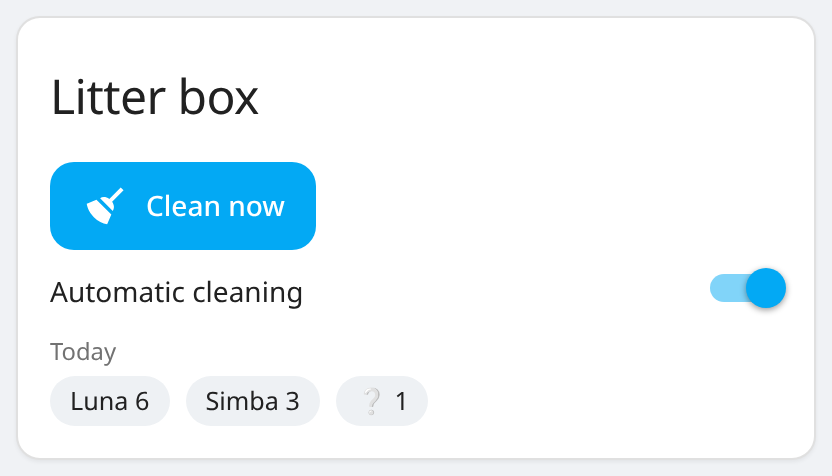
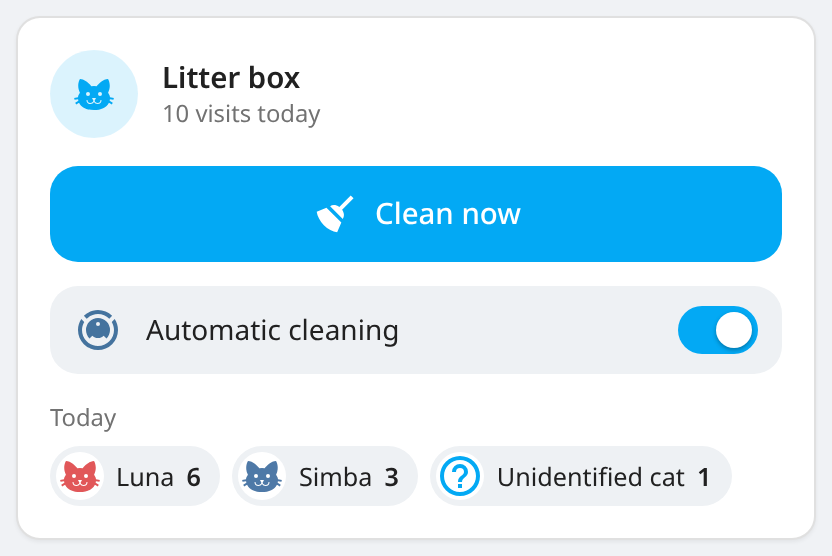
v0.9.0: litter box card redesign, compact clean card, cat colours
- Litter box card: header with status, big Clean now button with in-card
  confirmation, auto clean row, today's chips per cat
- New compact litter box card (clean only, tap twice to confirm)
- Colour per cat in the cat settings, used by charts and icons

diff --git a/custom_components/litter_cat_identifier/frontend/litter-cat-identifier-cards.js b/custom_components/litter_cat_identifier/frontend/litter-cat-identifier-cards.js
@@ -31,6 +31,7 @@ const I18N = {
     hide: "Hide unidentified", show: (n) => `Show unidentified (${n} hidden)`,
     clean: "Clean now", cleaning: "Cleaning…", confirmClean: "Clean the litter box now? Make sure no cat is inside.",
     autoClean: "Automatic cleaning", todayTitle: "Today", noClean: "Pick the cleaning entity in the card editor.",
+    cancel: "Cancel", tapAgain: "Tap again to clean", visitsToday: (n) => (n === 1 ? "1 visit today" : `${n} visits today`),
     l: {
       device_id: "Litter box", title: "Title", columns: "Cats per row", show_weight: "Show weight",
       show_visits: "Show visits today", show_last: "Show last visit", count: "Visits shown",
@@ -63,6 +64,7 @@ const I18N = {
     hide: "Ocultar no identificadas", show: (n) => `Mostrar no identificadas (${n} ocultas)`,
     clean: "Limpiar ahora", cleaning: "Limpiando…", confirmClean: "¿Limpiar el arenero ahora? Comprueba que no hay ningún gato dentro.",
     autoClean: "Limpieza automática", todayTitle: "Hoy", noClean: "Elige la entidad de limpieza en el editor de la tarjeta.",
+    cancel: "Cancelar", tapAgain: "Pulsa otra vez para limpiar", visitsToday: (n) => (n === 1 ? "1 visita hoy" : `${n} visitas hoy`),
     l: {
       device_id: "Arenero", title: "Título", columns: "Gatos por fila", show_weight: "Mostrar peso",
       show_visits: "Mostrar visitas de hoy", show_last: "Mostrar última visita", count: "Visitas visibles",
@@ -164,6 +166,38 @@ const STYLE = `
   .lci-chip { padding: 4px 10px; border-radius: 16px; background: var(--secondary-background-color); font-size: .9em; }
   .lci-health { display: flex; align-items: center; gap: 4px; margin-top: 4px; color: var(--error-color, #db4437); font-size: .85em; }
   .lci-health ha-icon { --mdc-icon-size: 16px; flex: none; }
+  .lcb-head, .lcb-mini { display: flex; align-items: center; gap: 12px; }
+  .lcb-head { margin-bottom: 14px; }
+  .lcb-titles { flex: 1; min-width: 0; }
+  .lcb-badge { width: 44px; height: 44px; border-radius: 50%; flex: none; display: grid; place-items: center;
+               background: color-mix(in srgb, var(--primary-color) 14%, transparent); color: var(--primary-color); }
+  .lcb-badge.busy ha-icon { animation: lcb-spin 2.4s linear infinite; }
+  @keyframes lcb-spin { to { transform: rotate(360deg); } }
+  @media (prefers-reduced-motion: reduce) { .lcb-badge.busy ha-icon { animation: none; } }
+  .lcb-btn { display: inline-flex; align-items: center; justify-content: center; gap: 8px; padding: 12px 18px; border-radius: 14px; border: 0;
+             cursor: pointer; font: inherit; font-weight: 500; color: var(--text-primary-color, #fff); background: var(--primary-color); }
+  .lcb-btn.wide { width: 100%; font-size: 1.05em; }
+  .lcb-btn[disabled] { opacity: .6; cursor: default; }
+  .lcb-ask { display: flex; flex-direction: column; gap: 10px; padding: 12px; border-radius: 14px; background: var(--secondary-background-color); }
+  .lcb-ask-b { display: flex; justify-content: flex-end; gap: 8px; align-items: center; }
+  .lcb-link { border: 0; background: none; font: inherit; color: var(--primary-color); cursor: pointer; padding: 8px 12px; }
+  .lcb-row { display: flex; align-items: center; gap: 12px; width: 100%; margin-top: 12px; padding: 10px 12px; border: 0; border-radius: 14px;
+             background: var(--secondary-background-color); font: inherit; color: var(--primary-text-color); cursor: pointer; text-align: left; }
+  .lcb-row > span:first-of-type { flex: 1; }
+  .lcb-row ha-icon { color: var(--state-icon-color, var(--secondary-text-color)); }
+  .lcb-sw { width: 40px; height: 24px; border-radius: 12px; background: var(--divider-color); position: relative; flex: none; transition: background .2s; }
+  .lcb-sw span { position: absolute; top: 3px; left: 3px; width: 18px; height: 18px; border-radius: 50%; background: #fff; box-shadow: 0 1px 2px rgba(0,0,0,.3); transition: transform .2s; }
+  .lcb-sw.on { background: var(--primary-color); } .lcb-sw.on span { transform: translateX(16px); }
+  .lcb-label { margin-top: 14px; }
+  .lcb-chips { display: flex; flex-wrap: wrap; gap: 6px; margin-top: 6px; }
+  .lcb-chip { display: inline-flex; align-items: center; gap: 6px; padding: 3px 10px 3px 3px; border-radius: 16px; background: var(--secondary-background-color); font-size: .9em; }
+  .lcb-chip img, .lcb-chip ha-icon { width: 24px; height: 24px; border-radius: 50%; object-fit: cover; --mdc-icon-size: 16px;
+                                     display: grid; place-items: center; background: var(--card-background-color); color: var(--primary-color); }
+  .lcb-chip b { font-weight: 600; }
+  .lcb-round { width: 44px; height: 44px; border-radius: 50%; border: 0; flex: none; cursor: pointer; display: grid; place-items: center;
+               background: color-mix(in srgb, var(--primary-color) 14%, transparent); color: var(--primary-color); }
+  .lcb-round.armed { background: var(--error-color, #db4437); color: #fff; }
+  .lcb-round[disabled] { opacity: .5; cursor: default; }
   .lci-foot { display: flex; justify-content: center; align-items: center; gap: 12px; flex-wrap: wrap; margin-top: 8px; }
   .lci-scroll { max-height: 420px; overflow-y: auto; }
   .lci-chart-head { display: flex; justify-content: space-between; align-items: center; gap: 8px; flex-wrap: wrap; margin-bottom: 6px; }
@@ -302,7 +336,8 @@ function catTile(hass, T, c, cat) {
   const avatar = pic
     ? `<img class="lci-avatar" src="${esc(pic)}" alt="">`
     : `<div class="lci-avatar"><ha-icon icon="mdi:cat"></ha-icon></div>`;
-  const style = [c.avatar_size ? `--lci-avatar:${Number(c.avatar_size)}px` : "", c.color ? `--lci-color:${esc(c.color)}` : ""].join(";");
+  const color = c.color || w?.attributes?.color;  // card option first, then the cat's colour
+  const style = [c.avatar_size ? `--lci-avatar:${Number(c.avatar_size)}px` : "", color ? `--lci-color:${esc(color)}` : ""].join(";");
   return `<div class="lci-cat ${c.layout === "vertical" ? "vertical" : ""}" style="${style}" data-entity="${esc(cat.weight)}">${avatar}
     <div style="min-width:0"><div class="lci-name">${esc(cat.name)}</div>
     ${on(c.show_weight) ? `<div class="lci-kg">${kg}</div>` : ""}${sub ? `<div class="lci-sub">${sub}</div>` : ""}
@@ -579,7 +614,7 @@ class VisitsChartCard extends BaseCard {
   /** [{name, color, id, values[days]}]: statistics per day, today's live value from the sensor. */
   _series(hass, box, days) {
     const T = t(hass), colors = this._config.colors || {};
-    const list = box.cats.map((c, i) => ({ name: c.name, id: c.visits, color: colors[c.name] || PALETTE[i % PALETTE.length] }));
+    const list = box.cats.map((c, i) => ({ name: c.name, id: c.visits, color: colors[c.name] || hass.states[c.weight]?.attributes?.color || PALETTE[i % PALETTE.length] }));
     if (on(this._config.show_unidentified) && box.unidentified) list.push({ name: T.unidentified, id: box.unidentified, color: GREY, unknown: true });
     const keys = Array.from({ length: days }, (_, i) => dayStart(i - (days - 1)).toDateString());
     for (const s of list) {
@@ -675,43 +710,62 @@ const VisitsChartEditor = makeEditor((T) => [
 ]);
 
 /* ---------- litter box ---------- */
+/** Run the cleaning entity (switch, button or script). */
+const runClean = (hass, id) => {
+  const domain = id.split(".")[0];
+  if (domain === "button") hass.callService("button", "press", { entity_id: id });
+  else if (domain === "script") hass.callService("script", "turn_on", { entity_id: id });
+  else hass.callService(domain, "turn_on", { entity_id: id });
+};
+const isCleaning = (hass, id) => id && id.startsWith("switch.") && hass.states[id]?.state === "on";
+
 class BoxCard extends BaseCard {
   static getStubConfig() { return { confirm: true }; }
   static async getConfigElement() { await loadHaForm(); return document.createElement("litter-cat-identifier-box-editor"); }
   signature(hass, box) {
     const c = this._config || {};
-    return super.signature(hass, box) + [c.clean_entity, c.auto_clean_entity].map((id) => id && hass.states[id]?.last_updated).join("|");
+    return `${super.signature(hass, box)}${[c.clean_entity, c.auto_clean_entity].map((id) => id && hass.states[id]?.last_updated).join("|")}|${this._asking}`;
   }
   render(hass, box) {
     const T = t(hass), c = this._config;
     const title = c.title ?? T.box;
     const clean = c.clean_entity && hass.states[c.clean_entity];
-    const busy = clean && c.clean_entity.startsWith("switch.") && clean.state === "on";
-    const actions = clean
-      ? `<button class="lci-btn" ${busy ? "disabled" : ""}><ha-icon icon="mdi:broom"></ha-icon>${busy ? T.cleaning : T.clean}</button>`
-      : `<div class="lci-empty">${T.noClean}</div>`;
+    const busy = isCleaning(hass, c.clean_entity);
+    const total = box ? box.cats.reduce((n, cat) => n + (parseInt(hass.states[cat.visits]?.state) || 0), 0)
+      + (parseInt(hass.states[box.unidentified]?.state) || 0) : 0;
     const auto = c.auto_clean_entity && hass.states[c.auto_clean_entity];
-    const autoRow = auto
-      ? `<div class="lci-row"><span>${T.autoClean}</span><ha-switch ${auto.state === "on" ? "checked" : ""}></ha-switch></div>`
-      : "";
+    const autoOn = auto?.state === "on";
+    const head = `<div class="lcb-head"><span class="lcb-badge ${busy ? "busy" : ""}"><ha-icon icon="${busy ? "mdi:rotate-3d-variant" : "mdi:cat"}"></ha-icon></span>
+      <div class="lcb-titles"><div class="lci-name">${esc(c.show_title === false ? "" : title) || esc(T.box)}</div>
+      <div class="lci-sub">${busy ? T.cleaning : T.visitsToday(total)}</div></div></div>`;
+    const action = clean
+      ? (this._asking
+        ? `<div class="lcb-ask"><span>${esc(T.confirmClean)}</span><div class="lcb-ask-b"><button class="lcb-link" data-a="no">${T.cancel}</button>
+            <button class="lcb-btn" data-a="yes"><ha-icon icon="mdi:broom"></ha-icon>${T.clean}</button></div></div>`
+        : `<button class="lcb-btn wide" data-a="clean" ${busy ? "disabled" : ""}><ha-icon icon="mdi:broom"></ha-icon>${busy ? T.cleaning : T.clean}</button>`)
+      : `<div class="lci-empty">${T.noClean}</div>`;
+    const autoRow = auto ? `<button class="lcb-row" data-a="auto" role="switch" aria-checked="${autoOn}">
+        <ha-icon icon="mdi:robot-vacuum"></ha-icon><span>${T.autoClean}</span><span class="lcb-sw ${autoOn ? "on" : ""}"><span></span></span></button>` : "";
     let today = "";
     if (box && on(c.show_today)) {
-      const chips = box.cats.map((cat) => `<span class="lci-chip">${esc(cat.name)} ${esc(hass.states[cat.visits]?.state ?? "0")}</span>`);
-      if (box.unidentified) chips.push(`<span class="lci-chip">❔ ${esc(hass.states[box.unidentified]?.state ?? "0")}</span>`);
-      today = `<div class="lci-sub" style="margin-top:12px">${T.todayTitle}</div><div class="lci-chips" style="margin-top:4px">${chips.join("")}</div>`;
+      const chips = box.cats.map((cat) => {
+        const pic = hass.states[cat.weight]?.attributes?.entity_picture;
+        const color = hass.states[cat.weight]?.attributes?.color;
+        return `<span class="lcb-chip">${pic ? `<img src="${esc(pic)}" alt="">` : `<ha-icon icon="mdi:cat" ${color ? `style="color:${esc(color)}"` : ""}></ha-icon>`}${esc(cat.name)}<b>${esc(hass.states[cat.visits]?.state ?? "0")}</b></span>`;
+      });
+      if (box.unidentified && parseInt(hass.states[box.unidentified]?.state)) chips.push(`<span class="lcb-chip"><ha-icon icon="mdi:help-circle-outline"></ha-icon>${T.unidentified}<b>${esc(hass.states[box.unidentified].state)}</b></span>`);
+      today = `<div class="lci-sub lcb-label">${T.todayTitle}</div><div class="lcb-chips">${chips.join("")}</div>`;
     }
-    this.shell(title, `<div class="lci-actions">${actions}</div>${autoRow}${today}`);
-    this.querySelector(".lci-btn")?.addEventListener("click", () => {
-      if (on(c.confirm) && !window.confirm(T.confirmClean)) return;
-      const id = c.clean_entity, domain = id.split(".")[0];
-      if (domain === "button") hass.callService("button", "press", { entity_id: id });
-      else if (domain === "script") hass.callService("script", "turn_on", { entity_id: id });
-      else hass.callService(domain, "turn_on", { entity_id: id });
-    });
-    this.querySelector("ha-switch")?.addEventListener("change", (ev) =>
-      hass.callService("switch", ev.target.checked ? "turn_on" : "turn_off", { entity_id: c.auto_clean_entity }));
+    this.shell("", `${head}${action}${autoRow}${today}`);
+    this.querySelectorAll("[data-a]").forEach((el) => el.addEventListener("click", () => {
+      const a = el.dataset.a;
+      if (a === "clean") { if (on(c.confirm)) { this._asking = true; this._sig = null; this.hass = this._hass; } else runClean(hass, c.clean_entity); }
+      else if (a === "yes") { this._asking = false; runClean(hass, c.clean_entity); this._sig = null; this.hass = this._hass; }
+      else if (a === "no") { this._asking = false; this._sig = null; this.hass = this._hass; }
+      else if (a === "auto") hass.callService("switch", autoOn ? "turn_off" : "turn_on", { entity_id: c.auto_clean_entity });
+    }));
   }
-  getCardSize() { return 2; }
+  getCardSize() { return 3; }
   getGridOptions() { return { columns: 6, min_columns: 4 }; }
 }
 const BoxEditor = makeEditor(() => [
@@ -722,6 +776,47 @@ const BoxEditor = makeEditor(() => [
     { name: "confirm", selector: { boolean: {} }, default: true },
     { name: "show_today", selector: { boolean: {} }, default: true },
   ] },
+]);
+
+/* ---------- compact litter box: clean only ---------- */
+class BoxMiniCard extends BaseCard {
+  static getStubConfig() { return { confirm: true }; }
+  static async getConfigElement() { await loadHaForm(); return document.createElement("litter-cat-identifier-box-mini-editor"); }
+  signature(hass, box) {
+    const c = this._config || {};
+    return `${super.signature(hass, box)}${c.clean_entity && hass.states[c.clean_entity]?.last_updated}|${this._armed}`;
+  }
+  render(hass, box) {
+    const T = t(hass), c = this._config;
+    const busy = isCleaning(hass, c.clean_entity);
+    const total = box ? box.cats.reduce((n, cat) => n + (parseInt(hass.states[cat.visits]?.state) || 0), 0)
+      + (parseInt(hass.states[box.unidentified]?.state) || 0) : 0;
+    const name = c.title ?? T.box;
+    const sub = !c.clean_entity ? T.noClean : busy ? T.cleaning : this._armed ? T.tapAgain : T.visitsToday(total);
+    this.shell("", `<div class="lcb-mini"><span class="lcb-badge ${busy ? "busy" : ""}"><ha-icon icon="${busy ? "mdi:rotate-3d-variant" : "mdi:cat"}"></ha-icon></span>
+      <div class="lcb-titles"><div class="lci-name">${esc(name)}</div><div class="lci-sub">${esc(sub)}</div></div>
+      ${c.clean_entity ? `<button class="lcb-round ${this._armed ? "armed" : ""}" aria-label="${T.clean}" ${busy ? "disabled" : ""}>
+        <ha-icon icon="${this._armed ? "mdi:check" : "mdi:broom"}"></ha-icon></button>` : ""}</div>`);
+    this.querySelector(".lcb-round")?.addEventListener("click", () => {
+      if (on(c.confirm) && !this._armed) {
+        this._armed = true;
+        clearTimeout(this._armTimer);
+        this._armTimer = setTimeout(() => { this._armed = false; this._sig = null; this.hass = this._hass; }, 4000);
+      } else {
+        this._armed = false;
+        runClean(hass, c.clean_entity);
+      }
+      this._sig = null;
+      this.hass = this._hass;
+    });
+  }
+  getCardSize() { return 1; }
+  getGridOptions() { return { columns: 6, min_columns: 4, rows: 1 }; }
+}
+const BoxMiniEditor = makeEditor(() => [
+  ...COMMON(),
+  { name: "clean_entity", selector: { entity: { domain: ["switch", "button", "script"] } } },
+  { name: "confirm", selector: { boolean: {} }, default: true },
 ]);
 
 const define = (tag, cls) => { if (!customElements.get(tag)) customElements.define(tag, cls); };
@@ -737,6 +832,8 @@ define("litter-cat-identifier-visits-chart", VisitsChartCard);
 define("litter-cat-identifier-visits-chart-editor", VisitsChartEditor);
 define("litter-cat-identifier-box", BoxCard);
 define("litter-cat-identifier-box-editor", BoxEditor);
+define("litter-cat-identifier-box-mini", BoxMiniCard);
+define("litter-cat-identifier-box-mini-editor", BoxMiniEditor);
 
 window.customCards = window.customCards || [];
 for (const [type, name, description] of [
@@ -746,6 +843,7 @@ for (const [type, name, description] of [
   ["litter-cat-identifier-weight", "Litter Cat Identifier – Weight", "Weight history of each cat."],
   ["litter-cat-identifier-visits-chart", "Litter Cat Identifier – Visits per day", "Bars per day with one bar per cat, 7 or 30 days."],
   ["litter-cat-identifier-box", "Litter Cat Identifier – Litter box", "Clean now, automatic cleaning and today's visits."],
+  ["litter-cat-identifier-box-mini", "Litter Cat Identifier – Litter box (compact)", "One row with a clean button."],
 ]) {
   if (!window.customCards.some((c) => c.type === type)) {
     window.customCards.push({ type, name, description, preview: true,

diff --git a/custom_components/litter_cat_identifier/config_flow.py b/custom_components/litter_cat_identifier/config_flow.py
@@ -12,6 +12,7 @@ from homeassistant.core import HomeAssistant, callback
 from homeassistant.helpers import device_registry as dr, entity_registry as er
 from homeassistant.helpers.selector import (
     BooleanSelector,
+    ColorRGBSelector,
     EntitySelector,
     EntitySelectorConfig,
     NumberSelector,
@@ -33,6 +34,7 @@ from .const import (
     CONF_CAT_OPTIONS,
     CONF_CAT_WEIGHT,
     CONF_CATS,
+    CONF_COLOR,
     CONF_DURATION_ENTITY,
     CONF_MIN_WEIGHT,
     CONF_NOTIFY_TARGETS,
@@ -287,6 +289,7 @@ class LitterCatOptionsFlow(OptionsFlow):
                     CONF_PICTURE: picture,
                     CONF_NOTIFY_VISIT: user_input[CONF_NOTIFY_VISIT],
                     CONF_ALERT_HOURS: float(user_input[CONF_ALERT_HOURS]),
+                    CONF_COLOR: user_input.get(CONF_COLOR) or current.get(CONF_COLOR),
                 }
                 return self.async_create_entry(data={**opts, CONF_CAT_OPTIONS: cat_opts})
 
@@ -299,6 +302,7 @@ class LitterCatOptionsFlow(OptionsFlow):
                 vol.Required(CONF_ALERT_HOURS, default=current.get(CONF_ALERT_HOURS, 0)): NumberSelector(
                     NumberSelectorConfig(min=0, max=168, step=1, mode=NumberSelectorMode.BOX, unit_of_measurement="h")
                 ),
+                vol.Optional(CONF_COLOR, description={"suggested_value": current.get(CONF_COLOR)}): ColorRGBSelector(),
             }
         )
         return self.async_show_form(

diff --git a/custom_components/litter_cat_identifier/coordinator.py b/custom_components/litter_cat_identifier/coordinator.py
@@ -32,6 +32,7 @@ from .const import (
     CONF_CAT_OPTIONS,
     CONF_CAT_WEIGHT,
     CONF_CATS,
+    CONF_COLOR,
     CONF_DURATION_ENTITY,
     CONF_MIN_WEIGHT,
     CONF_NOTIFY_TARGETS,
@@ -109,6 +110,7 @@ class LitterCoordinator:
                 CONF_PICTURE: cat_opts.get(n, {}).get(CONF_PICTURE) or None,
                 CONF_NOTIFY_VISIT: bool(cat_opts.get(n, {}).get(CONF_NOTIFY_VISIT, False)),
                 CONF_ALERT_HOURS: float(cat_opts.get(n, {}).get(CONF_ALERT_HOURS, 0) or 0),
+                CONF_COLOR: cat_opts.get(n, {}).get(CONF_COLOR),
             }
             for n in self.cat_names
         }
@@ -135,6 +137,11 @@ class LitterCoordinator:
         self._cancel_timer: Callable[[], None] | None = None
         self._cancel_wait: Callable[[], None] | None = None  # counter ticked, waiting for the weight
         self._unsubs: list[Callable[[], None]] = []
+
+    def color(self, cat: str | None) -> str | None:
+        """Cat colour as #rrggbb (charts, icons), if one was picked."""
+        rgb = self.cat_settings.get(cat, {}).get(CONF_COLOR) if cat else None
+        return "#{:02x}{:02x}{:02x}".format(*rgb) if rgb and len(rgb) == 3 else None
 
     def picture(self, cat: str | None) -> str | None:
         return self.cat_settings.get(cat, {}).get(CONF_PICTURE) if cat else None

diff --git a/tests/test_uahpet_and_health.py b/tests/test_uahpet_and_health.py
@@ -93,3 +93,13 @@ async def test_frequent_visits_health(hass: HomeAssistant):
     state = hass.states.get(sensor)
     assert state.state == "on" and state.attributes["reasons"] == ["frequent_visits"]
     assert COUNTER  # same helpers as the main tests
+
+
+async def test_cat_colour(hass: HomeAssistant):
+    entry = await _setup(hass)
+    r = await hass.config_entries.options.async_init(entry.entry_id)
+    r = await hass.config_entries.options.async_configure(r["flow_id"], {"next_step_id": "cat_select"})
+    r = await hass.config_entries.options.async_configure(r["flow_id"], {"cat": "Luna"})
+    r = await hass.config_entries.options.async_configure(r["flow_id"], {"notify_visit": False, "alert_hours": 0, "color": [89, 161, 79]})
+    await hass.async_block_till_done()
+    assert hass.states.get("sensor.taco_luna_weight").attributes["color"] == "#59a14f"

diff --git a/custom_components/litter_cat_identifier/sensor.py b/custom_components/litter_cat_identifier/sensor.py
@@ -81,7 +81,7 @@ class CatWeightSensor(LitterEntity, SensorEntity):
 
     @property
     def extra_state_attributes(self) -> dict[str, Any]:
-        return {"cat": self.cat}
+        return self.cat_attributes()
 
     @property
     def native_value(self) -> float:
@@ -97,7 +97,7 @@ class CatVisitsTodaySensor(LitterEntity, SensorEntity):
 
     @property
     def extra_state_attributes(self) -> dict[str, Any]:
-        return {"cat": self.cat}
+        return self.cat_attributes()
 
     @property
     def native_value(self) -> int:
@@ -112,7 +112,7 @@ class CatLastVisitSensor(LitterEntity, SensorEntity):
 
     @property
     def extra_state_attributes(self) -> dict[str, Any]:
-        return {"cat": self.cat}
+        return self.cat_attributes()
 
     @property
     def native_value(self) -> datetime | None:

diff --git a/custom_components/litter_cat_identifier/entity.py b/custom_components/litter_cat_identifier/entity.py
@@ -34,6 +34,12 @@ class LitterEntity(Entity):
     def entity_picture(self) -> str | None:
         return self.coordinator.picture(self.cat)
 
+    def cat_attributes(self) -> dict:
+        attrs = {"cat": self.cat}
+        if color := self.coordinator.color(self.cat):
+            attrs["color"] = color
+        return attrs
+
     async def async_added_to_hass(self) -> None:
         self.async_on_remove(
             async_dispatcher_connect(

diff --git a/custom_components/litter_cat_identifier/const.py b/custom_components/litter_cat_identifier/const.py
@@ -42,6 +42,7 @@ CONF_NOTIFY_HEALTH = "notify_health"
 CONF_RECORD_UNIDENTIFIED = "record_unidentified"
 CONF_NOTIFY_VISIT = "notify_visit"
 CONF_ALERT_HOURS = "alert_hours"
+CONF_COLOR = "color"  # cat colour for charts / icons, [r, g, b]
 
 STORAGE_VERSION = 1
 

diff --git a/README.md b/README.md
@@ -19,7 +19,7 @@ Home Assistant integration that tells your cats apart by weight on any automatic
 - Per cat: learned weight (long-term statistics → trend graphs), visits today, last visit
 - Visit log (up to 2000 visits; the sensor shows the latest 20, cards and the websocket API the rest)
 - An **event entity** per litter box → automations like "notify if Luna hasn't visited in 24 h" or "Simba visited 6 times today"
-- **Photo per cat** shown on all of that cat's entities
+- **Photo and colour per cat**: the photo shows on the cat's entities; the colour (cat settings) is used by the charts and by the icon when there is no photo
 - **Notifications** from the UI: every visit, unidentified visits, or "no visit in X hours" per cat (photo attached on the HA mobile app)
 - Unidentified readings come with a **likely reason**: a cat half inside right after its visit (and which cat), or a litter refill
 - **Recalibrate** a cat's weight from its latest readings with one button
@@ -37,7 +37,7 @@ Home Assistant integration that tells your cats apart by weight on any automatic
 <tr><td><img src="docs/images/cats.png" alt="Cats card" width="380"><br><b>Cats</b>: weight, visits today, last visit and health alerts</td>
 <td><img src="docs/images/visits-chart.png" alt="Visits per day card" width="380"><br><b>Visits per day</b>: one bar per cat</td></tr>
 <tr><td><img src="docs/images/visits.png" alt="Recent visits card" width="380"><br><b>Recent visits</b> as a collapsible list (expanded)</td>
-<td><img src="docs/images/cat.png" alt="Cat card" width="380"><br><b>Cat</b>: a single cat<br><br><img src="docs/images/box.png" alt="Litter box card" width="380"><br><b>Litter box</b>: clean now, auto clean, today</td></tr>
+<td><img src="docs/images/cat.png" alt="Cat card" width="380"><br><b>Cat</b>: a single cat<br><br><img src="docs/images/box.png" alt="Litter box card" width="380"><br><b>Litter box</b>: clean now, auto clean, today<br><br><img src="docs/images/box-mini.png" alt="Compact litter box card" width="380"><br><b>Litter box (compact)</b>: clean only</td></tr>
 </table>
 
 Rendered from the real cards with sample data. The *Weight* card is Home Assistant's own statistics graph.
@@ -166,6 +166,7 @@ The integration ships its own cards. Edit a dashboard → **Add card** → searc
 | **Weight** (`custom:litter-cat-identifier-weight`) | Weight history per cat; the chart fills the card size | days, period (hour/day/week/month), line or bars, average/min/max |
 | **Visits per day** (`custom:litter-cat-identifier-visits-chart`) | Bars per day with **one bar per cat** (and grey for unidentified). Tap a cat in the legend to hide it, tap a day for its numbers, switch between 7 and 30 days | days, show unidentified, `colors` (YAML: `colors: {Luna: "#e15759"}`) |
 | **Litter box** (`custom:litter-cat-identifier-box`) | **Clean now** button, automatic-cleaning switch, today's visits per cat | cleaning entity (switch, button or script from your litter box integration), auto-clean switch, confirmation |
+| **Litter box, compact** (`custom:litter-cat-identifier-box-mini`) | One row: visits today and a clean button (tap twice to confirm) | cleaning entity, confirmation |
 
 They find your litter box and cats automatically and follow your Home Assistant language (English/Spanish). All cards also accept `title`, `show_title: false` (hide the header) and `device_id` (only needed with more than one litter box).
 
